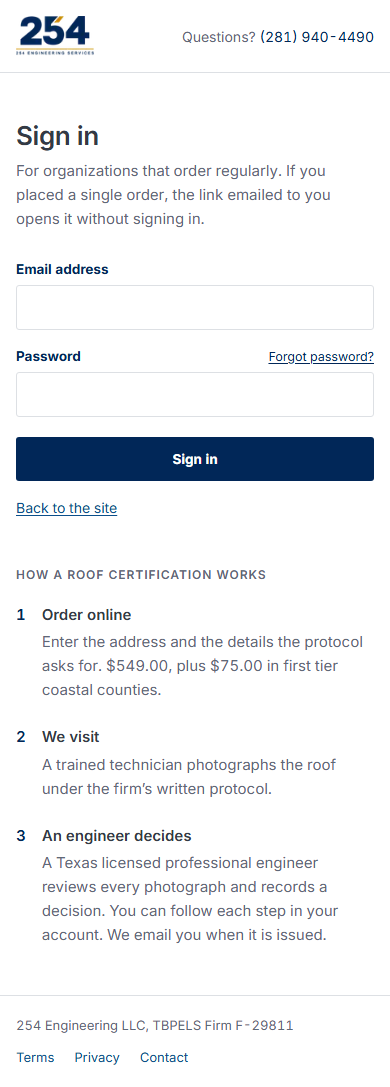
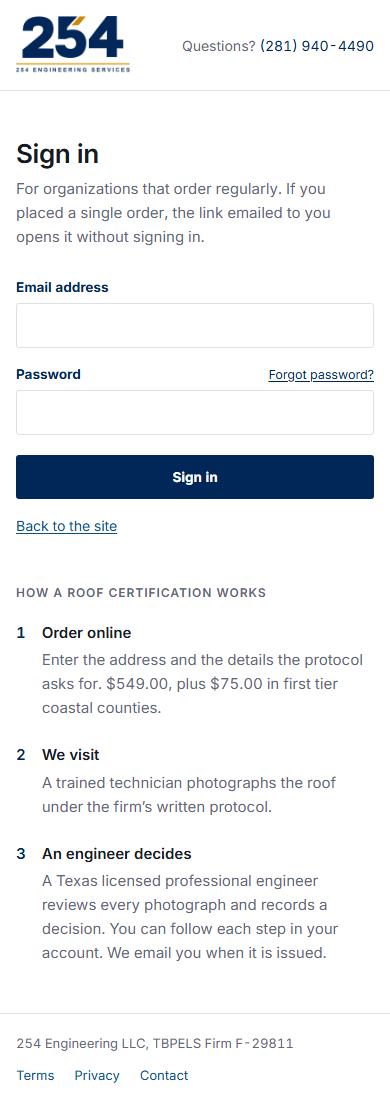
fix(design): the header mark meets the v5 rule, and the ink is V10's. Measured
Operator order, 2026-09-30: measure the rendered width from the browser, match
clamp(58px, 9vw, 84px), and report the computed colour of the heading against a
spec of #161B22. Both failed on the first measurement and both now pass.

WHAT THE MEASUREMENT FOUND THAT TWO SCREENSHOTS DID NOT.

  1280   78.36 x 40   spec height 84   short by 44
  390    78.36 x 40   spec height 58   short by 18
  h1 colour  rgb(51, 58, 69)  which is #333A45, against a spec of #161B22

A fixed height cannot satisfy a clamp: 40 rendered 40 at both widths. And an eye
cannot tell 78 from 84, or #333A45 from #161B22 on a capture, which is exactly
why the operator asked for numbers rather than another picture. Yesterday's
"better and still wrong" was reported as a fix because it LOOKED fixed.

THE MARK IS NOW THE RULE ITSELF. Wordmark gained a cssHeight prop, and every
customer header passes clamp(58px, 9vw, 84px). `height` is set to 84, the
clamp's maximum, because that is the source Next prepares: asking for less is
how a mark ends up upscaled and soft at the wide end, which no audit sees and a
screen does. The served source went from 96x49 to 256x130 as a result.

  1280   165.41 x 84   MATCHES
  390    114.20 x 58   MATCHES

THE INK MOVED ON BOTH SURFACES, which is the pattern the 2026-09-28 palette
ruling set: keep the one-brand invariant by moving both halves of a twin rather
than letting the surfaces diverge. --ink and --color-ink are now #161B22, in the
[…]

diff --git a/src/app/account/login/page.tsx b/src/app/account/login/page.tsx
@@ -85,21 +85,28 @@ export default async function AccountLoginPage({
         <div className="mx-auto flex w-full max-w-[1200px] items-center justify-between px-4 py-4 sm:px-6">
           <Link href="/" prefetch={false} aria-label="254 Engineering Services, home">
             {/*
-              40, NOT 28, AND IT WAS 28 UNTIL A SCREENSHOT WAS LOOKED AT.
+              THE v5 HEADER RULE, AND IT TOOK THREE GOES TO GET RIGHT.
 
-              The mark is a raster lockup fixed at 2262 by 1147, so height alone
-              drives it and the descriptor "ENGINEERING SERVICES" is part of the
-              artwork rather than live text. At 28 tall the whole lockup is 55
-              wide and the descriptor renders as an illegible smear. Nothing in
-              the code could show that: the component is correct, the aspect is
-              correct, and the only symptom is on a screen.
+              The mark is a raster lockup with a fixed aspect, so height alone
+              drives it and "ENGINEERING SERVICES" is part of the artwork rather
+              than live text. My restyle set this to 28, which renders the whole
+              lockup 55 wide and the descriptor as an illegible smear. Nothing in
+              the code could show that: the component was correct, the aspect was
+              correct, the typecheck was clean and 59 audits were green. It was
+              found by opening the capture.
 
-              Found by opening the capture, which is the half of this the board
-              cannot do. v5 sets the header mark to clamp(58px, 9vw, 84px) and
-              the old card used 44; 40 is the smallest value where the
-              descriptor is readable at both widths.
+              40 was the second go, and it was BETTER AND STILL WRONG. Measured
+              from the browser on 2026-09-30 it rendered 78.36 by 40 at both
+              widths, against a spec of 84 at 1280 and 58 at 390: short by 44 and
+              by 18. A fixed number cannot satisfy a clamp, and eyeballing a
+              capture cannot tell 78 from 84, which is why the operator asked for
+              the measurement rather than another screenshot.
+
+              So it is the rule itself, as CSS. `height` stays at the clamp's
+              maximum because that is the source size Next must prepare: asking
+              for less is how a mark ends up upscaled and soft at the wide end.
             */}
-            <Wordmark height={40} priority />
+            <Wordmark height={84} cssHeight="clamp(58px, 9vw, 84px)" priority />
           </Link>
           {phone ? (
             <p className="text-[14px] text-[var(--color-ink-quiet)]">

diff --git a/src/components/brand/Wordmark.tsx b/src/components/brand/Wordmark.tsx
@@ -43,11 +43,26 @@ export function Wordmark({
   onDark = false,
   /** Rendered height in pixels. Width follows the fixed aspect. */
   height = 72,
+  cssHeight,
   priority = false,
   className = "",
 }: {
   onDark?: boolean;
   height?: number;
+  /**
+   * A CSS length for the rendered height, used instead of `height` when given.
+   *
+   * IT EXISTS BECAUSE v5's HEADER RULE IS RESPONSIVE AND A NUMBER CANNOT BE.
+   * The spec is `clamp(58px, 9vw, 84px)`, which is 84 at 1280 and 58 at 390. A
+   * fixed `height` prop satisfies neither: measured on 2026-09-30, a header set
+   * to 40 rendered 40 at both widths, short of the spec by 44 and by 18.
+   *
+   * `height` is still what sizes the intrinsic attributes Next needs, so the
+   * caller passes the LARGEST value the clamp can reach. Asking Next for a
+   * smaller source than the clamp will render is how a mark ends up upscaled
+   * and soft at the wide end, which no audit would see and a screen would.
+   */
+  cssHeight?: string;
   priority?: boolean;
   className?: string;
 }) {
@@ -60,7 +75,7 @@ export function Wordmark({
       height={height}
       priority={priority}
       className={`block h-auto w-auto ${className}`}
-      style={{ height, width: "auto" }}
+      style={{ height: cssHeight ?? height, width: "auto" }}
     />
   );
 }

diff --git a/src/app/globals.css b/src/app/globals.css
@@ -192,7 +192,26 @@
    * underline somebody may remove.
    */
   --color-link: #0b4f8a;
-  --color-ink: #333a45;
+  /*
+   * V10's ink, on both surfaces. Operator spec, 2026-09-30: "#161B22".
+   *
+   * MOVED WITH ITS TWIN `--ink` in the same commit, which is the pattern his
+   * 2026-09-28 palette ruling set: keep the one-brand invariant by moving both
+   * halves rather than letting the two surfaces diverge.
+   *
+   * IT WAS MEASURED ON EVERY GROUND IT IS USED AGAINST, not only white, because
+   * the last palette change was right about the obvious pairing and wrong about
+   * two others. Nothing fell: white 11.46 to 17.30, canvas 10.51 to 15.86, the
+   * sunk surface 10.11 to 15.26, row hover, gold wash and the warning ground
+   * all up by about five and a half. The lowest ratio anywhere is 15.26 against
+   * an AA floor of 4.5.
+   *
+   * IT WAS FOUND BY MEASURING THE RENDERED COLOUR RATHER THAN READING THE CODE.
+   * The h1 on /account/login computed to rgb(51, 58, 69), which is the old
+   * #333A45, against a spec of #161B22. An eye cannot tell those apart on a
+   * screenshot, which is why the operator asked for the computed value.
+   */
+  --color-ink: #161b22;
   --color-ink-quiet: #5f6877;
 
   /*

diff --git a/src/app/account/sign-up/page.tsx b/src/app/account/sign-up/page.tsx
@@ -92,10 +92,10 @@ export default async function AccountSignUpPage() {
       <header className="border-b border-[var(--color-limestone-line)]">
         <div className="mx-auto flex w-full max-w-[1200px] items-center justify-between px-4 py-4 sm:px-6">
           <Link href="/" prefetch={false} aria-label="254 Engineering Services, home">
-            {/* 40 rather than 28. See the note on /account/login: below 40 the
-                lockup's descriptor is an illegible smear, and only a screenshot
-                shows it. */}
-            <Wordmark height={40} priority />
+            {/* v5's header rule as CSS. See the note on /account/login: a fixed
+                number cannot satisfy a clamp, and 40 measured 44px short at
+                1280. */}
+            <Wordmark height={84} cssHeight="clamp(58px, 9vw, 84px)" priority />
           </Link>
           <Link
             href="/account/login"

diff --git a/src/app/account/forgot-password/page.tsx b/src/app/account/forgot-password/page.tsx
@@ -55,8 +55,8 @@ export default async function ForgotPasswordPage() {
       <header className="border-b border-[var(--color-limestone-line)]">
         <div className="mx-auto flex w-full max-w-[1200px] items-center justify-between px-4 py-4 sm:px-6">
           <Link href="/" prefetch={false} aria-label="254 Engineering Services, home">
-            {/* 40, see the note on /account/login. */}
-            <Wordmark height={40} priority />
+            {/* v5's header rule as CSS. See the note on /account/login. */}
+            <Wordmark height={84} cssHeight="clamp(58px, 9vw, 84px)" priority />
           </Link>
           <Link
             href="/account/login"

diff --git a/src/app/account/settings/page.tsx b/src/app/account/settings/page.tsx
@@ -40,8 +40,8 @@ export default async function AccountSettingsPage() {
       <header className="border-b border-[var(--color-limestone-line)]">
         <div className="mx-auto flex w-full max-w-[1200px] items-center justify-between px-4 py-4 sm:px-6">
           <Link href="/account" prefetch={false} aria-label="254 Engineering Services, your account">
-            {/* 40, see the note on /account/login. */}
-            <Wordmark height={40} />
+            {/* v5's header rule as CSS. See the note on /account/login. */}
+            <Wordmark height={84} cssHeight="clamp(58px, 9vw, 84px)" />
           </Link>
           <Link
             href="/account"

diff --git a/src/app/account/statements/page.tsx b/src/app/account/statements/page.tsx
@@ -41,8 +41,8 @@ export default async function StatementsPage() {
       <header className="border-b border-[var(--color-limestone-line)]">
         <div className="mx-auto flex w-full max-w-[1200px] items-center justify-between px-4 py-4 sm:px-6">
           <Link href="/account" prefetch={false} aria-label="254 Engineering Services, your account">
-            {/* 40, see the note on /account/login. */}
-            <Wordmark height={40} />
+            {/* v5's header rule as CSS. See the note on /account/login. */}
+            <Wordmark height={84} cssHeight="clamp(58px, 9vw, 84px)" />
           </Link>
           <Link
             href="/account"

diff --git a/src/app/account/order/page.tsx b/src/app/account/order/page.tsx
@@ -58,8 +58,8 @@ export default async function BulkOrderPage({
       <header className="border-b border-[var(--color-limestone-line)]">
         <div className="mx-auto flex w-full max-w-[1200px] items-center justify-between px-4 py-4 sm:px-6">
           <Link href="/account" prefetch={false} aria-label="254 Engineering Services, your account">
-            {/* 40, see the note on /account/login. */}
-            <Wordmark height={40} />
+            {/* v5's header rule as CSS. See the note on /account/login. */}
+            <Wordmark height={84} cssHeight="clamp(58px, 9vw, 84px)" />
           </Link>
           <Link
             href="/account"

diff --git a/src/app/account/set-password/page.tsx b/src/app/account/set-password/page.tsx
@@ -42,8 +42,8 @@ export default async function AccountSetPasswordPage({
       <header className="border-b border-[var(--color-limestone-line)]">
         <div className="mx-auto flex w-full max-w-[1200px] items-center justify-between px-4 py-4 sm:px-6">
           <Link href="/" prefetch={false} aria-label="254 Engineering Services, home">
-            {/* 40, see the note on /account/login. */}
-            <Wordmark height={40} priority />
+            {/* v5's header rule as CSS. See the note on /account/login. */}
+            <Wordmark height={84} cssHeight="clamp(58px, 9vw, 84px)" priority />
           </Link>
         </div>
       </header>

diff --git a/src/app/account/orders/[reference]/page.tsx b/src/app/account/orders/[reference]/page.tsx
@@ -58,8 +58,8 @@ export default async function BatchPage({
       <header className="border-b border-[var(--color-limestone-line)]">
         <div className="mx-auto flex w-full max-w-[1200px] items-center justify-between px-4 py-4 sm:px-6">
           <Link href="/account" prefetch={false} aria-label="254 Engineering Services, your account">
-            {/* 40, see the note on /account/login. */}
-            <Wordmark height={40} />
+            {/* v5's header rule as CSS. See the note on /account/login. */}
+            <Wordmark height={84} cssHeight="clamp(58px, 9vw, 84px)" />
           </Link>
           <Link
             href="/account"

diff --git a/src/app/account/page.tsx b/src/app/account/page.tsx
@@ -40,8 +40,8 @@ export default async function AccountHomePage() {
       <header className="border-b border-[var(--color-limestone-line)]">
         <div className="mx-auto flex w-full max-w-[1200px] items-center justify-between px-4 py-4 sm:px-6">
           <Link href="/" prefetch={false} aria-label="254 Engineering Services, home">
-            {/* 40, see the note on /account/login. */}
-            <Wordmark height={40} />
+            {/* v5's header rule as CSS. See the note on /account/login. */}
+            <Wordmark height={84} cssHeight="clamp(58px, 9vw, 84px)" />
           </Link>
           <SignOutButton />
         </div>

diff --git a/src/styles/portal.css b/src/styles/portal.css
@@ -94,7 +94,7 @@
   --warn-border: #e8d9ae;
   --warn-ink: #5c4a12;
 
-  --ink: #333a45;
+  --ink: #161b22;
   --secondary: #555e6b;
   --muted: #8a93a0;
 
